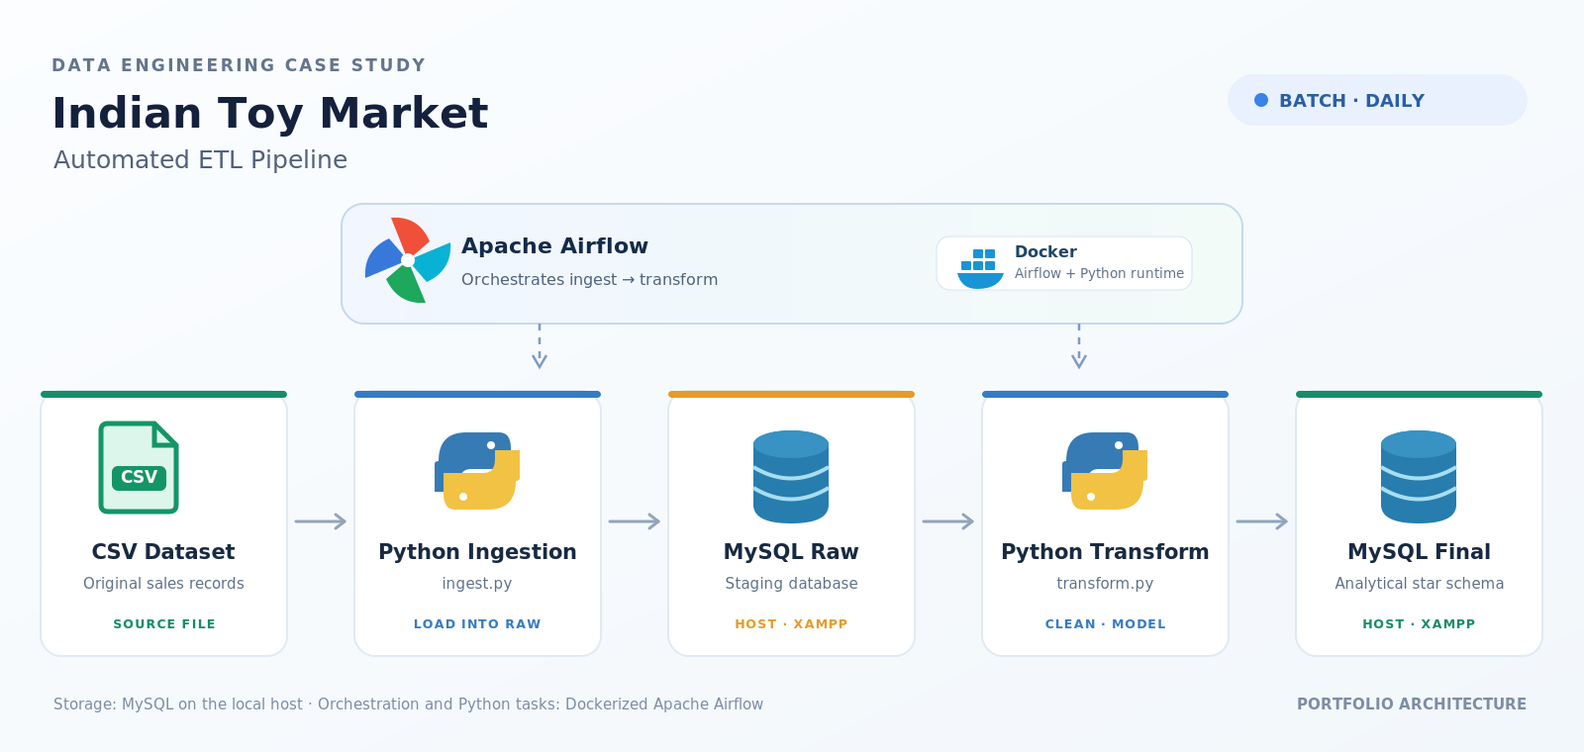
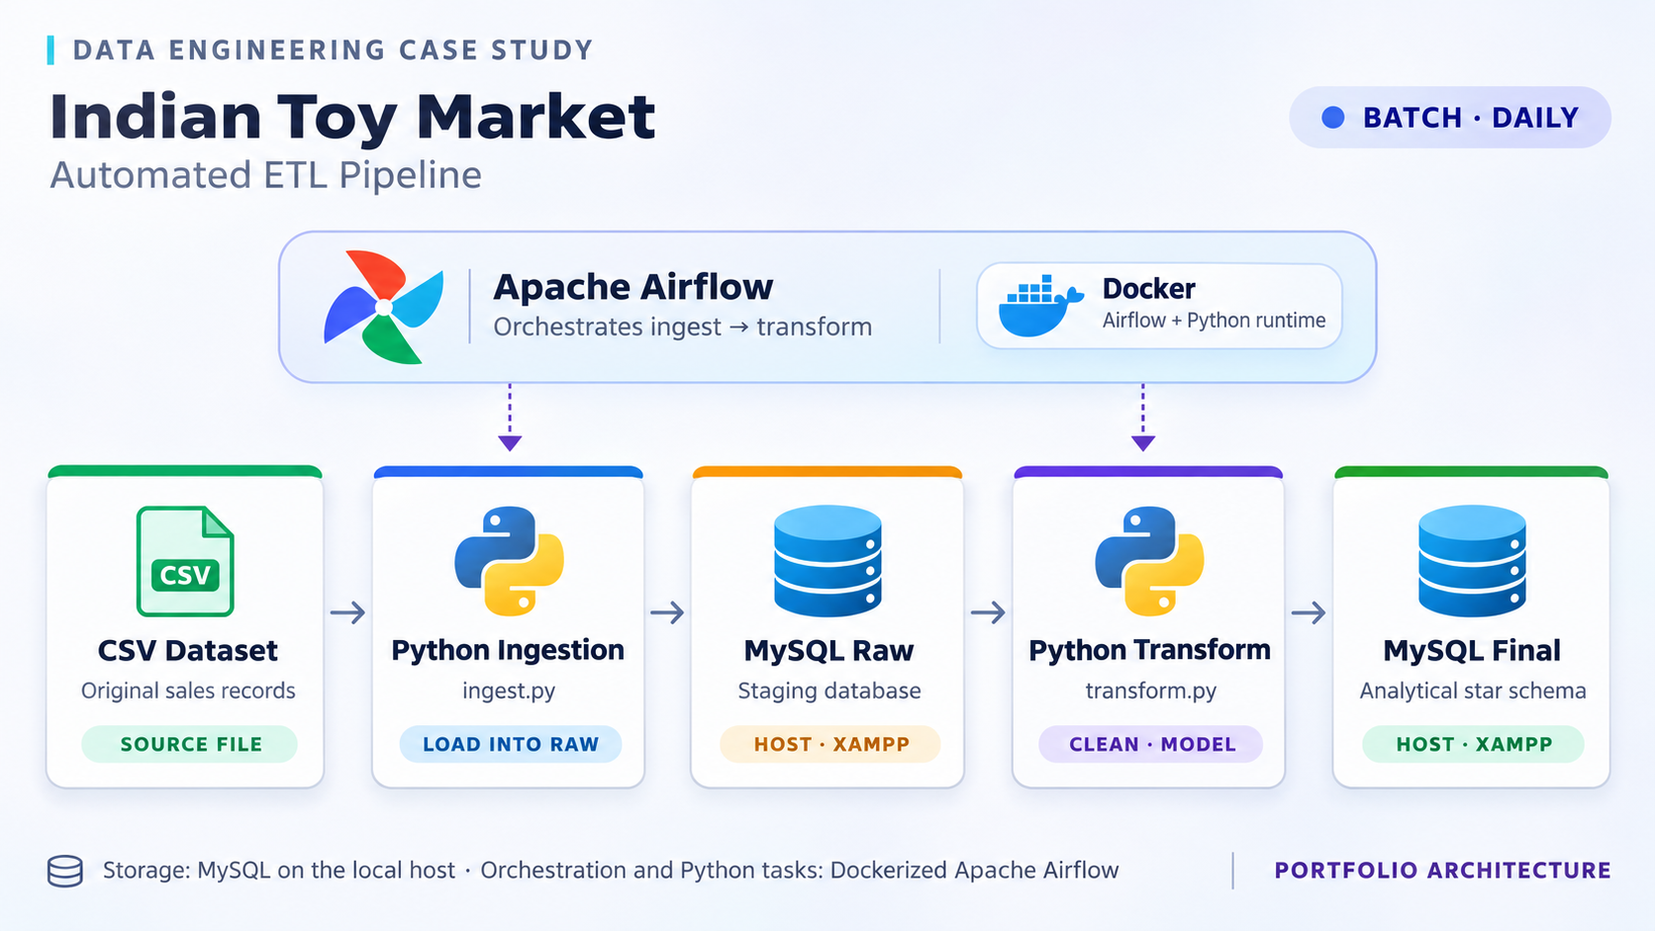
feat: refine portfolio sections and project presentation

diff --git a/react-app/src/styles/selected-work.css b/react-app/src/styles/selected-work.css
@@ -12,12 +12,13 @@
 .selected-work__intro h2 { font-family: var(--v2-font-display); font-size: clamp(2.4rem, 5.5vw, 5.5rem); font-weight: 500; line-height: 1.08; letter-spacing: -.055em; overflow-wrap: anywhere; }
 .selected-work__description { max-width: 55ch; margin-top: 24px; color: var(--v2-muted); font-size: clamp(1rem, 1.3vw, 1.15rem); line-height: 1.8; }
 .selected-work__projects { display: grid; gap: clamp(88px, 11vw, 176px); }
-.work-showcase { min-width: 0; --work-accent: var(--v2-accent); }
+.work-showcase { min-width: 0; --work-accent: var(--v2-accent); background: var(--v2-surface); border: 1px solid var(--v2-border); border-top: 2px solid var(--work-accent); border-radius: 12px; }
 .work-showcase--olist { --work-accent: var(--v2-accent-secondary); }
-.work-showcase__heading { border-top: 1px solid var(--v2-border); padding-block: 24px 32px; }
+.work-showcase__heading { padding: clamp(24px, 3vw, 40px); }
 .work-showcase__heading h3 { margin-top: 0; max-width: 25ch; font: 500 clamp(1.8rem, 3.5vw, 3.5rem)/1.12 var(--v2-font-display); letter-spacing: -.04em; overflow-wrap: anywhere; }
-.work-showcase__visual { background: var(--v2-surface); border: 1px solid var(--v2-border); border-top-color: var(--work-accent); border-radius: 12px; }
-.work-showcase__summary { display: grid; grid-template-columns: minmax(0, 1.1fr) minmax(0, 1fr); gap: clamp(28px, 6vw, 100px); padding-block: 32px; }
+.work-showcase__visual { background: var(--v2-background); border-block: 1px solid var(--v2-border); }
+.work-showcase__summary { display: grid; grid-template-columns: minmax(0, 1.1fr) minmax(0, 1fr); gap: clamp(28px, 6vw, 100px); padding: clamp(24px, 3vw, 40px); }
+.work-showcase__dataset { padding: 0 clamp(24px, 3vw, 40px) clamp(24px, 3vw, 40px); }
 .work-showcase__description > p { max-width: 60ch; font-size: .95rem; line-height: 1.85; color: var(--v2-muted); }
 .work-showcase .work-showcase__context { color: var(--work-accent); font: .68rem/1.7 var(--v2-font-mono); margin-bottom: 12px; }
 .work-showcase__tags { display: flex; flex-wrap: wrap; gap: 8px; margin: 0; padding: 0; list-style: none; }
@@ -54,21 +55,8 @@
 .work-showcase__metrics dt { color: var(--v2-muted); font-size: .73rem; }
 .work-showcase__metrics dd { margin: 8px 0 0; color: var(--work-accent); font: 500 clamp(1.4rem, 2.8vw, 2.4rem)/1.2 var(--v2-font-display); letter-spacing: -.04em; overflow-wrap: anywhere; }
 .work-showcase__metrics-note { color: var(--v2-muted); margin-top: 10px; font-size: .7rem; }
-.work-showcase__details { margin-top: 40px; padding-top: 32px; border-top: 1px solid var(--v2-border); }
-.work-showcase__details h4 { color: var(--v2-text); font: 500 clamp(1.3rem, 2vw, 1.8rem)/1.3 var(--v2-font-display); letter-spacing: -.025em; margin: 0; }
-.work-showcase__process { display: grid; grid-template-columns: repeat(3, minmax(0, 1fr)); gap: 32px; list-style: none; padding: 0; margin: 28px 0; }
-.work-showcase__process h5 { color: var(--v2-text); font-size: .9rem; margin: 0 0 10px; }
-.work-showcase__process p, .work-showcase__insight > p:last-child { color: var(--v2-muted); font-size: .85rem; line-height: 1.8; }
-.work-showcase__insight { border-left: 2px solid var(--work-accent); padding-left: 20px; max-width: 75ch; }
-.selected-work__more { display: flex; flex-wrap: wrap; align-items: start; justify-content: space-between; gap: 24px 40px; margin-top: clamp(64px, 7vw, 112px); padding-top: 28px; border-top: 1px solid var(--v2-border); }
-.selected-work__more > div { min-width: 0; max-width: 65ch; }
-.selected-work__more h3 { margin: 12px 0 18px; font: 500 clamp(1.3rem, 2vw, 1.8rem)/1.3 var(--v2-font-display); color: var(--v2-text); letter-spacing: -.025em; overflow-wrap: anywhere; }
-.selected-work__more p { color: var(--v2-muted); font-size: .85rem; }
-.selected-work__more .work-showcase__context { color: var(--v2-accent); font: .68rem/1.7 var(--v2-font-mono); }
-.selected-work__more .selected-work__more-label { margin-bottom: 8px; color: var(--v2-text); }
 @media (max-width: 800px) {
   .work-showcase__summary { grid-template-columns: 1fr; gap: 24px; }
-  .work-showcase__process { grid-template-columns: 1fr; gap: 24px; }
 }
 @media (max-width: 600px) {
   .work-pipeline { padding: 24px 16px; }
@@ -109,6 +97,10 @@
 
 /* W2: load-safe gallery layers, always contained in the reserved viewport. */
 .project-media__viewport .project-media__image { position: absolute; inset: 8px; width: calc(100% - 16px); height: calc(100% - 16px); object-fit: scale-down; pointer-events: none; }
+/* Keep the shared viewport stable while giving the supplied light diagram a
+   consistent, uncluttered frame. The image itself is never cropped or distorted. */
+.pipeline-gallery .project-media__viewport--diagram { background: #f7faff; border-color: #cad6e5; border-radius: 8px; }
+.pipeline-gallery .project-media__viewport--diagram .project-media__image { inset: 16px; width: calc(100% - 32px); height: calc(100% - 32px); object-fit: contain; }
 .project-media__image { z-index: 0; }
 .project-media__image.is-current { z-index: 1; }
 .project-media__image.is-pending { visibility: hidden; }
@@ -127,7 +119,7 @@
   .work-showcase__link:focus-visible > span[aria-hidden] { transform: translate(2px, -2px); }
 }
 @media (hover: hover) and (pointer: fine) and (prefers-reduced-motion: no-preference) {
-  .work-showcase:hover .work-showcase__visual { transform: translateY(-3px); border-color: var(--work-accent); box-shadow: 0 8px 24px rgb(0 0 0 / 12%); }
+  .work-showcase:hover .work-showcase__visual { border-color: var(--work-accent); }
   .work-showcase__link:hover > span[aria-hidden] { transform: translate(2px, -2px); }
   .project-media__controls button:hover { color: var(--work-accent); border-color: var(--work-accent); }
 }

diff --git a/react-app/tests/portfolio-validation.test.js b/react-app/tests/portfolio-validation.test.js
@@ -69,10 +69,11 @@ test('A1 integrates About/Education, orders and numbers sections, and preserves 
     const skills = section(markup, 'skills')
     const skillElements = tokens(skills).filter(token => token[0] === 'start')
     const skillText = tokens(skills).filter(token => token[0] === 'text').map(token => token[1])
-    assert.equal(skillText.filter(text => /^0\d\s*\//.test(text)).length, 1)
-    assert(skillText.includes('03 / SKILLS & CAPABILITIES'))
-    assert(skillText.includes('Tools are part of the process.'))
-    assert(skillText.includes('The focus is on what I can build, analyze, and improve with them.'))
+    assert.deepEqual(skillText.filter(text => /^0\d\s*\//.test(text)), ['03 / SKILLS & CAPABILITIES'])
+    assert(!skills.includes('skills-v2__intro'))
+    assert.match(skills, /<h2 class="homepage-label skills-v2__label" id="skills-title">03 \/ SKILLS &amp; CAPABILITIES<\/h2>/)
+    assert(!/Tools are part|The focus is on/.test(skills))
+    assert.equal((skills.match(/class="skills-v2__skills"/g) || []).length, 4)
     assert.deepEqual([...skills.matchAll(/<h3>([^<]+)<\/h3>/g)].map(match => decode(match[1])),
       ['Data Engineering', 'Data Analytics', 'Databases & Data Modeling', 'Programming & Development'])
     assert.equal(skillElements.filter(token => token[1] === 'article').length, 4)
@@ -117,14 +118,13 @@ test('A1 integrates About/Education, orders and numbers sections, and preserves 
     assert(!work.includes('work-showcase__identity'))
     assert(!workText.some(text => /^0\d(?:\s*\/|$)/.test(text) && text !== '02 / SELECTED WORK'))
     assert(!workText.some(text => /^(?:Data Engineering|Data Analytics)$/i.test(text)))
-    for (const copy of ['More work, beyond the dashboard.', 'On GitHub', 'Additional projects',
-      'Explore my GitHub for additional projects in software, data, and computing.']) assert(workText.includes(copy), copy)
-    assert.match(work, /<aside\b[^>]*id="projects"/)
-    // Retain every previous Olist fact, metric, analysis step and image caption;
-    // only the requested section heading/project display title are replaced.
+    assert(!/On GitHub|Behind the dashboards|project-details|id="projects"|selected-work__more/.test(work))
+    // Preserve Olist summary, metrics and captions; feedback explicitly removes
+    // the old detail block and its View Project anchor.
     const replaced = ['02 / Featured project', 'A closer look at the data.',
-      'Analytics / Visualization', 'Brazilian E-Commerce Analytics']
-    for (const token of tokens(original.match(workPattern)[0]).filter(token => token[0] === 'text')) {
+      'Analytics / Visualization', 'Brazilian E-Commerce Analytics', 'View Project', '↓']
+    const originalWorkSummary = original.match(workPattern)[0].split('<div class="project-details"')[0]
+    for (const token of tokens(originalWorkSummary).filter(token => token[0] === 'text')) {
       const text = token[1].replace(/^0[123] \/ (?=Executive overview|Sales analysis|Customer experience)/, '')
       if (!replaced.includes(text)) assert(workText.includes(text), text)
     }
@@ -140,6 +140,10 @@ test('A1 integrates About/Education, orders and numbers sections, and preserves 
     assert.equal(new Set(switches.map(token => token[2]['aria-controls'])).size, 1)
     assert.equal(pipelineElements.filter(token => token[1] === 'img').length, 1)
     assert.match(pipelineElements.find(token => token[1] === 'img')[2].src, /architecture\.png$/)
+    assert.match(pipeline, /project-media__viewport--diagram/)
+    for (const article of work.matchAll(/<article\b[^>]*>[\s\S]*?<\/article>/g)) {
+      assert.match(article[0], /^<article[^>]*><header class="work-showcase__heading"><h3/)
+    }
     assert(!/<canvas|\d+%|\d+K|href="https:\/\/github/.test(pipeline))
     const olist = work.match(/<article\b[^>]*olist[^>]*>[\s\S]*?<\/article>/)[0]
     const olistElements = tokens(olist).filter(token => token[0] === 'start')
@@ -164,7 +168,10 @@ test('A1 integrates About/Education, orders and numbers sections, and preserves 
     assert.match(hero, /Exploring data engineering and analytics through reliable pipelines, thoughtful analysis, and practical projects\./)
     const heroElements = tokens(hero).filter(token => token[0] === 'start')
     const heroLinks = heroElements.filter(token => token[1] === 'a')
-    assert.deepEqual(heroLinks.map(token => token[2].href), ['#featured', '#about', '#about'])
+    assert.deepEqual(heroLinks.map(token => token[2].href), ['#featured', '/portfolio/Candra_Wijaya_CV.pdf', '#about'])
+    assert.match(hero, /Download CV/)
+    assert.equal(heroLinks[1][2].target, '_blank')
+    assert.equal(heroLinks[1][2].rel, 'noopener noreferrer')
     const svg = heroElements.find(token => token[1] === 'svg')[2]
     assert.equal(svg['aria-hidden'], 'true')
     assert.equal(svg.focusable, 'false')
@@ -298,7 +305,8 @@ test('Contact activates owner-approved email and base-aware CV while preserving 
     assert.match(rows[3], /PDF, opens in a new tab/)
     assert.equal((contact.match(/opens in a new tab/g) || []).length, 3)
     assert(!/href="#"/.test(contact))
-    assert.match(read('../src/components/Contact.jsx'), /import\.meta\.env\.BASE_URL/)
+    assert.match(read('../src/data/contact.js'), /import\.meta\.env\.BASE_URL/)
+    for (const component of ['Contact', 'Hero']) assert.match(read('../src/components/' + component + '.jsx'), /import \{ cvUrl \} from '\.\.\/data\/contact\.js'/)
     const pdf = readFileSync(new URL('../public/Candra_Wijaya_CV.pdf', import.meta.url))
     assert(pdf.subarray(0, 5).equals(Buffer.from('%PDF-')))
     assert(pdf.subarray(-1024).toString('latin1').includes('%%EOF'))

diff --git a/react-app/src/components/Skills.jsx b/react-app/src/components/Skills.jsx
@@ -1,22 +1,22 @@
 const capabilities = [
   {
     title: 'Data Engineering',
-    description: 'Extract, clean, and load CSV data into MySQL, with Python transformations orchestrated by Airflow in a Docker environment.',
+    skills: ['CSV extraction and loading', 'Python data cleaning and transformation', 'Pipeline orchestration in containerized environments'],
     technologies: ['Apache Airflow', 'Docker'],
   },
   {
     title: 'Data Analytics',
-    description: 'Profile datasets and turn sales, delivery, and customer experience questions into analytical reports and dashboards.',
+    skills: ['Dataset profiling', 'Sales, delivery, and customer experience analysis', 'Analytical reporting and dashboards'],
     technologies: ['Power BI', 'Power Query', 'DAX'],
   },
   {
     title: 'Databases & Data Modeling',
-    description: 'Structure data in relational tables and build star-schema models with fact and dimension tables for analysis.',
+    skills: ['Relational data structures', 'Fact and dimension tables', 'Data modeling for analysis'],
     technologies: ['MySQL', 'Dimensional modeling', 'Star schema'],
   },
   {
     title: 'Programming & Development',
-    description: 'Write data preparation scripts and build component-based web interfaces, keeping project changes under version control.',
+    skills: ['Data preparation scripts', 'Component-based web interfaces', 'Project version control'],
     technologies: ['Python', 'JavaScript', 'React', 'Git', 'GitHub'],
   },
 ]
@@ -25,16 +25,12 @@ export default function Skills() {
   return (
     <section className="skills-v2" id="skills" aria-labelledby="skills-title">
       <div className="skills-v2__inner container">
-        <div className="skills-v2__intro">
-          <p className="homepage-label skills-v2__eyebrow">03 / SKILLS &amp; CAPABILITIES</p>
-          <h2 id="skills-title">Tools are part of the process.</h2>
-          <p className="skills-v2__description">The focus is on what I can build, analyze, and improve with them.</p>
-        </div>
+        <h2 className="homepage-label skills-v2__label" id="skills-title">03 / SKILLS &amp; CAPABILITIES</h2>
         <div className="skills-v2__grid">
-          {capabilities.map(({ title, description, technologies }) => (
+          {capabilities.map(({ title, skills, technologies }) => (
             <article className="skills-v2__capability" key={title}>
               <h3>{title}</h3>
-              <p>{description}</p>
+              <ul className="skills-v2__skills" aria-label={`${title} capabilities`}>{skills.map(skill => <li key={skill}>{skill}</li>)}</ul>
               <ul className="skills-v2__technologies" aria-label={`${title} tools and methods`}>
                 {technologies.map(technology => <li key={technology}>{technology}</li>)}
               </ul>

diff --git a/react-app/src/styles/skills-v2.css b/react-app/src/styles/skills-v2.css
@@ -1,23 +1,19 @@
 /* S1: static capability groups; scoped to preserve the approved sections. */
 .skills-v2 { background: var(--v2-background); color: var(--v2-text); font-family: var(--v2-font-body); padding-block: clamp(72px, 8vw, 128px); }
 .skills-v2__inner { width: min(1400px, calc(100% - 2 * max(var(--gutter), env(safe-area-inset-left, 0px), env(safe-area-inset-right, 0px)))); }
-.skills-v2__intro { max-width: 900px; margin-bottom: clamp(36px, 5vw, 64px); }
-.skills-v2__eyebrow { margin-bottom: 24px; }
-.skills-v2 h2 { color: var(--v2-text); max-width: 19ch; font: 500 clamp(2.35rem, 4.6vw, 5rem)/1.08 var(--v2-font-display); letter-spacing: -.05em; overflow-wrap: anywhere; }
-.skills-v2__description { margin-top: 24px; max-width: 52ch; color: var(--v2-muted); font-size: clamp(1rem, 1.2vw, 1.1rem); line-height: 1.85; }
+.skills-v2__label { margin-bottom: 32px; }
 .skills-v2__grid { display: grid; grid-template-columns: repeat(2, minmax(0, 1fr)); gap: 24px; }
 .skills-v2__capability { min-width: 0; padding: clamp(24px, 3vw, 40px); background: var(--v2-surface); border: 1px solid var(--v2-border); border-top: 2px solid var(--v2-accent); border-radius: 6px; }
 .skills-v2__capability:nth-child(even) { border-top-color: var(--v2-accent-secondary); }
 .skills-v2__capability h3 { color: var(--v2-text); font: 500 clamp(1.35rem, 2vw, 1.75rem)/1.3 var(--v2-font-display); letter-spacing: -.025em; overflow-wrap: anywhere; }
-.skills-v2__capability > p { margin-top: 16px; max-width: 53ch; color: var(--v2-muted); font-size: .95rem; line-height: 1.85; }
+.skills-v2__skills { margin: 24px 0 0; padding-left: 20px; color: var(--v2-text); font-size: clamp(1rem, 1.3vw, 1.1rem); line-height: 1.8; }
+.skills-v2__skills li { padding-left: 4px; margin-block: 10px; overflow-wrap: anywhere; }
+.skills-v2__skills li::marker { color: var(--v2-accent); }
 .skills-v2__technologies { display: flex; flex-wrap: wrap; gap: 8px 16px; list-style: none; margin: 28px 0 0; padding: 20px 0 0; border-top: 1px solid var(--v2-border); }
-.skills-v2__technologies li { max-width: 100%; color: var(--v2-accent); font: .75rem/1.8 var(--v2-font-mono); overflow-wrap: anywhere; }
+.skills-v2__technologies li { max-width: 100%; color: var(--v2-accent); font: .95rem/1.8 var(--v2-font-mono); overflow-wrap: anywhere; }
 .skills-v2__capability:nth-child(even) .skills-v2__technologies li { color: var(--v2-accent-secondary); }
 @media (max-width: 800px) {
   .skills-v2__grid { grid-template-columns: minmax(0, 1fr); gap: 16px; }
-}
-@media (max-width: 430px) {
-  .skills-v2 h2 { font-size: clamp(2rem, 9vw, 2.4rem); }
 }
 @media (forced-colors: active) {
   .skills-v2__capability, .skills-v2__technologies { border-color: CanvasText; }

diff --git a/react-app/src/components/ProjectShowcase.jsx b/react-app/src/components/ProjectShowcase.jsx
@@ -23,8 +23,7 @@ export default function ProjectShowcase({ project }) {
         </div>
         <div className="work-showcase__meta">
           <ProjectTags technologies={project.technologies} />
-          {(project.details || project.repository) && <div className="work-showcase__actions">
-            {project.details && <a className="work-showcase__link" href="#project-details">View Project <span aria-hidden="true">↓</span></a>}
+          {project.repository && <div className="work-showcase__actions">
             {project.repository && <a className="work-showcase__link" href={project.repository} target="_blank" rel="noopener noreferrer">
               GitHub Repository <span aria-hidden="true">↗</span><span className="sr-only"> (opens in a new tab)</span>
             </a>}
@@ -39,16 +38,6 @@ export default function ProjectShowcase({ project }) {
           </div>)}
         </dl>
         <p className="work-showcase__metrics-note">{project.metricsNote}</p>
-      </div>}
-      {project.details && <div className="work-showcase__details" id="project-details" aria-labelledby="project-details-title">
-        <p className="work-showcase__context">{project.details.eyebrow}</p>
-        <h4 id="project-details-title">{project.details.title}</h4>
-        <ol className="work-showcase__process">
-          {project.details.steps.map(step => <li key={step.title}><h5>{step.title}</h5><p>{step.text}</p></li>)}
-        </ol>
-        <aside className="work-showcase__insight" aria-label="Analytical observation">
-          <p className="work-showcase__context">Analytical observation</p><p>{project.details.insight}</p>
-        </aside>
       </div>}
     </article>
   )

diff --git a/react-app/src/styles/about-v2.css b/react-app/src/styles/about-v2.css
@@ -20,10 +20,10 @@
 .about-v2__academic-details dt { color: var(--v2-muted); font: .66rem/1.7 var(--v2-font-mono); }
 .about-v2__academic-details dd { margin: 8px 0 0; color: var(--v2-text); font: 500 clamp(1.4rem, 2.2vw, 2rem)/1.2 var(--v2-font-display); font-variant-numeric: tabular-nums; }
 .about-v2__academic-details dd span { color: var(--v2-muted); font-size: .85em; }
-.about-v2__strengths { grid-column: 1 / -1; min-width: 0; border-top: 1px solid var(--v2-border); padding-top: 28px; }
-.about-v2__strengths h3 { font: .7rem/1.7 var(--v2-font-mono); letter-spacing: .08em; text-transform: uppercase; color: var(--v2-muted); }
+.about-v2__strengths { grid-column: 1 / -1; min-width: 0; padding: clamp(24px, 3vw, 40px); background: var(--v2-surface); border: 1px solid var(--v2-border); border-top: 2px solid var(--v2-accent); border-radius: 8px; }
+.about-v2__strengths h3 { font: 500 clamp(1.65rem, 2.5vw, 2.4rem)/1.2 var(--v2-font-display); letter-spacing: -.035em; color: var(--v2-accent); }
 .about-v2__strengths ul { list-style: none; display: grid; grid-template-columns: repeat(3, minmax(0, 1fr)); gap: 16px 28px; margin: 24px 0 0; padding: 0; }
-.about-v2__strengths li { padding-left: 14px; border-left: 1px solid var(--v2-accent); color: var(--v2-text); font-size: .85rem; line-height: 1.7; overflow-wrap: anywhere; }
+.about-v2__strengths li { padding: 8px 0 8px 16px; border-left: 2px solid var(--v2-accent-secondary); color: var(--v2-text); font-size: 1rem; font-weight: 500; line-height: 1.7; overflow-wrap: anywhere; }
 @media (max-width: 800px) {
   .about-v2__inner { grid-template-columns: minmax(0, 1fr); gap: 36px; }
   .about-v2__education { margin-top: 0; }

diff --git a/react-app/src/data/projects.js b/react-app/src/data/projects.js
@@ -15,9 +15,9 @@ export const projects = [
     technologies: ['Python', 'Apache Airflow', 'Docker', 'MySQL'],
     visual: 'pipeline',
     media: [
-      { src: architecture, label: 'Architecture Diagram',
+      { src: architecture, label: 'Architecture Diagram', presentation: 'diagram',
         alt: 'Automated Data Pipeline architecture: CSV ingestion and transformation with Python, MySQL raw and final storage, orchestrated by Airflow in Docker.',
-        width: 1600, height: 760 },
+        width: 1672, height: 941 },
       { src: airflowWorkflow, label: 'Airflow DAG',
         alt: 'Airflow DAG showing ingest_csv_to_raw followed by transform_raw_to_star_schema, both marked successful.',
         width: 512, height: 140 },
@@ -56,14 +56,5 @@ export const projects = [
       { src: customerExperience, label: 'Customer experience', name: 'customer experience',
         alt: 'Customer experience dashboard for Brazilian E-Commerce Analytics', width: 1277, height: 718 },
     ],
-    details: {
-      eyebrow: 'Behind the dashboards', title: 'From raw data to a clear view.',
-      steps: [
-        { title: 'Profile', text: 'Profiled the data with Python before analytical modeling.' },
-        { title: 'Model & explore', text: 'Built a star-schema model in Power BI, with Executive Overview, Sales Analysis, and Customer Experience dashboards.' },
-        { title: 'Version', text: 'Used PBIP/TMDL to keep the Power BI project under source control with Git.' },
-      ],
-      insight: 'On-time deliveries are associated with higher average review scores than late deliveries. This relationship does not establish causation.',
-    },
   },
 ]

diff --git a/react-app/src/components/Hero.jsx b/react-app/src/components/Hero.jsx
@@ -1,4 +1,5 @@
 import InteractiveConstellation from './InteractiveConstellation.jsx'
+import { cvUrl } from '../data/contact.js'
 
 export default function Hero() {
   return (
@@ -19,8 +20,8 @@ export default function Hero() {
             <a className="lab-hero__cta lab-hero__cta--primary" href="#featured">
               Explore Work <span aria-hidden="true">↗</span>
             </a>
-            <a className="lab-hero__cta lab-hero__cta--secondary" href="#about">
-              About Me <span aria-hidden="true">↗</span>
+            <a className="lab-hero__cta lab-hero__cta--secondary" href={cvUrl} target="_blank" rel="noopener noreferrer">
+              Download CV <span aria-hidden="true">↗</span><span className="sr-only"> (PDF, opens in a new tab)</span>
             </a>
           </div>
         </div>

diff --git a/react-app/src/components/Contact.jsx b/react-app/src/components/Contact.jsx
@@ -1,9 +1,11 @@
+import { cvUrl } from '../data/contact.js'
+
 // Email and PDF approved by the owner; social destinations remain unchanged.
 const contactEntries = [
   { label: 'Email Me', href: 'mailto:wijayac2005@gmail.com' },
   { label: 'GitHub', href: 'https://github.com/udeenc', newTab: true },
   { label: 'LinkedIn', href: 'https://www.linkedin.com/in/candra-wijaya-36a008347', newTab: true },
-  { label: 'View My CV', href: `${import.meta.env.BASE_URL}Candra_Wijaya_CV.pdf`, newTab: true, document: true },
+  { label: 'View My CV', href: cvUrl, newTab: true, document: true },
 ]
 
 function EntryContent({ entry }) {

diff --git a/react-app/src/components/SelectedWork.jsx b/react-app/src/components/SelectedWork.jsx
@@ -2,7 +2,6 @@ import { projects } from '../data/projects.js'
 import ProjectShowcase from './ProjectShowcase.jsx'
 import { useEffect, useRef } from 'react'
 import { mountWorkReveal } from '../effects/workReveal.js'
-import Projects from './Projects.jsx'
 
 export default function SelectedWork() {
   const section = useRef(null)
@@ -18,7 +17,6 @@ export default function SelectedWork() {
         <div className="selected-work__projects">
           {projects.map(project => <ProjectShowcase key={project.id} project={project} />)}
         </div>
-        <Projects />
       </div>
     </section>
   )

diff --git a/react-app/src/components/ProjectMedia.jsx b/react-app/src/components/ProjectMedia.jsx
@@ -24,7 +24,7 @@ export default function ProjectMedia({ images, label = 'Olist dashboard screensh
         ))}
       </div>
       <figure id={panelId} aria-busy={state.pending !== null}>
-        <div className="project-media__viewport">
+        <div className={`project-media__viewport${image.presentation === 'diagram' ? ' project-media__viewport--diagram' : ''}`}>
           <a href={image.src} target="_blank" rel="noopener noreferrer"
             aria-label={`View full ${image.name ? `${image.name} dashboard` : image.label} (opens in a new tab)`}>
             {layers.map(index => {

diff --git a/react-app/src/data/contact.js b/react-app/src/data/contact.js
@@ -1,0 +1,1 @@
+export const cvUrl = `${import.meta.env.BASE_URL}Candra_Wijaya_CV.pdf`
